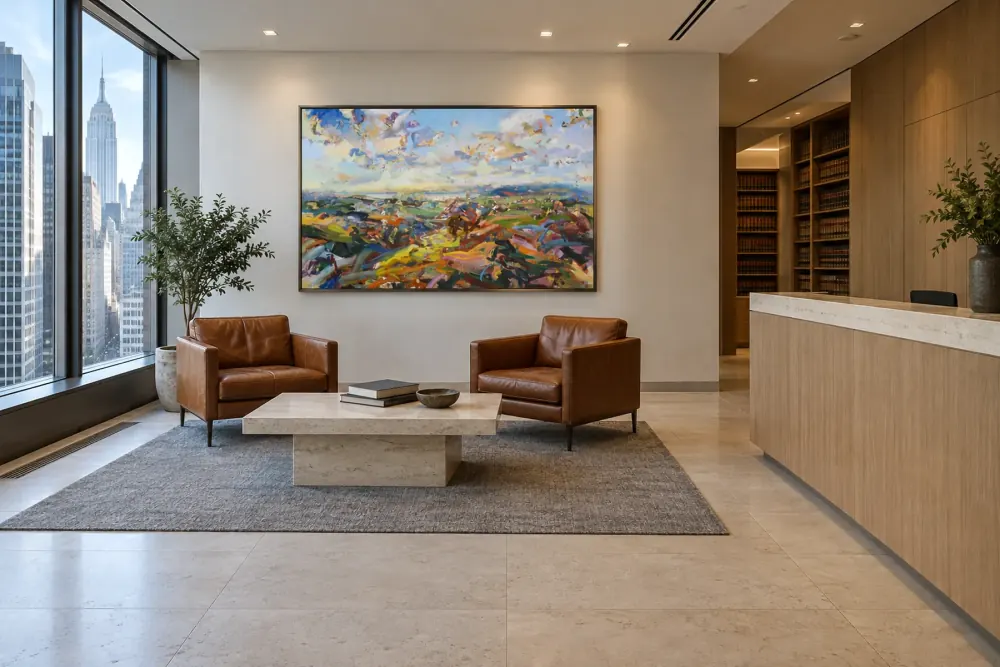
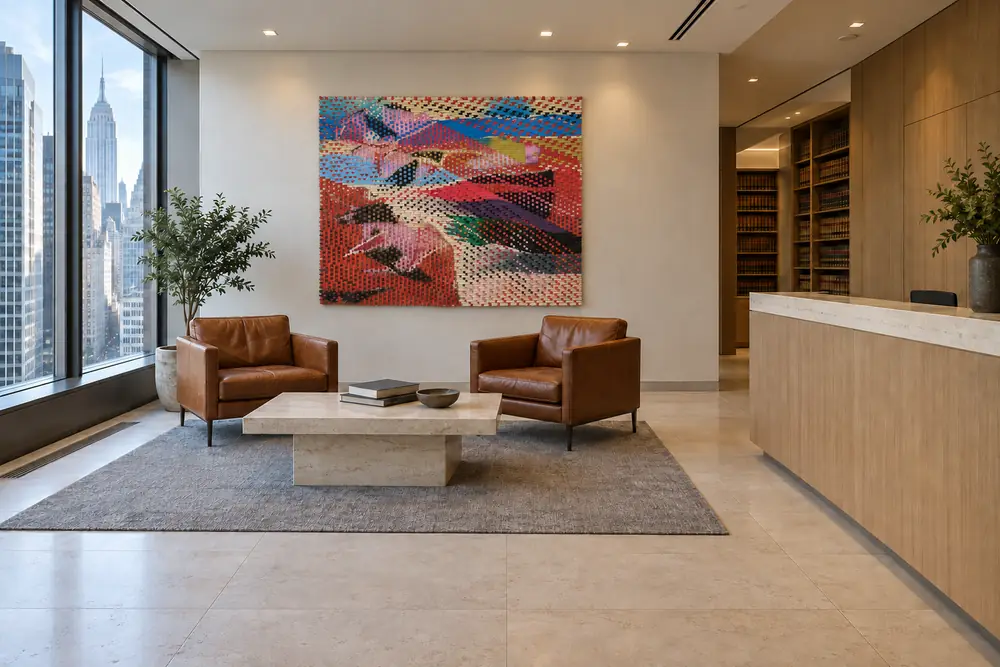
Law firms: new reception after image (woven abstract by Arzabe)
Replace the law-01 reception AFTER render on /law-firms/, the office
advisory pages and the homepage law-firms tile. Captions, alts, rect,
focal point and art_x now describe the new work.

diff --git a/law-firms/index.html b/law-firms/index.html
@@ -12,7 +12,7 @@
 <meta property="og:image" content="https://stavtheodor.com/images/home2/variants/law-firms/law-firms_og.jpg">
 <meta property="og:image:width" content="1200">
 <meta property="og:image:height" content="630">
-<meta property="og:image:alt" content="A law firm reception over Manhattan: a wide, brightly painted landscape above two cognac leather chairs, law books on shelves at right.">
+<meta property="og:image:alt" content="A law firm reception over Manhattan: a large unframed woven abstract in red, pink and blue above two cognac leather chairs, law books on shelves at right.">
 <meta property="og:site_name" content="THEODORA">
 <meta property="og:locale" content="en_US">
 <meta property="og:locale:alternate" content="he_IL">
@@ -410,9 +410,9 @@
 <canvas id="gl" class="gl-only" role="img" aria-label="A living room painted into view, then a proposal for the art on its wall."></canvas>
 
 <section class="hero" id="hero" aria-label="Opening">
-  <figure class="sfig static-only" style="--fx:44.9%;--fy:29.94%">
-    <img src="/images/home2/variants/law-firms/law-firms_after.webp" alt="A law firm reception over Manhattan: a wide, brightly painted landscape above two cognac leather chairs, law books on shelves at right." data-alt-he="קבלה של משרד עורכי דין מעל מנהטן: נוף מצויר רחב בצבעים עזים מעל שתי כורסאות עור בגוון קוניאק, ספרי משפט על המדפים מימין." loading="lazy" decoding="async">
-    <figcaption><span data-l="en" lang="en">Proposal. A law firm reception high over Manhattan, a wide landscape in bright color above the leather chairs.</span><span data-l="he" lang="he" dir="rtl">הצעה. קבלה של משרד עורכי דין גבוה מעל מנהטן, נוף רחב בצבעים עזים מעל כורסאות העור.</span></figcaption>
+  <figure class="sfig static-only" style="--fx:45.14%;--fy:30.38%">
+    <img src="/images/home2/variants/law-firms/law-firms_after.webp" alt="A law firm reception over Manhattan: a large unframed woven abstract in red, pink and blue above two cognac leather chairs, law books on shelves at right." data-alt-he="קבלה של משרד עורכי דין מעל מנהטן: עבודה מופשטת ארוגה גדולה ללא מסגרת באדום, ורוד וכחול מעל שתי כורסאות עור בגוון קוניאק, ספרי משפט על המדפים מימין." loading="lazy" decoding="async">
+    <figcaption><span data-l="en" lang="en">Proposal. A law firm reception high over Manhattan, a woven abstract in red, pink and blue above the leather chairs.</span><span data-l="he" lang="he" dir="rtl">הצעה. קבלה של משרד עורכי דין גבוה מעל מנהטן, עבודה מופשטת ארוגה באדום, ורוד וכחול מעל כורסאות העור.</span></figcaption>
   </figure>
   <div class="hero-ui">
     <p class="line" id="l1"><span data-l="en" lang="en">Strong entrance.</span><span data-l="he" lang="he" dir="rtl">כניסה חזקה.</span></p>
@@ -438,7 +438,7 @@
   </figure>
 </div>
 <div class="band gl-only" aria-hidden="true"></div>
-<p class="cap gl-only" id="cap"><span class="cap-t" data-cap="p3"><span data-l="en" lang="en">Proposal. A law firm reception high over Manhattan, a wide landscape in bright color above the leather chairs.</span><span data-l="he" lang="he" dir="rtl">הצעה. קבלה של משרד עורכי דין גבוה מעל מנהטן, נוף רחב בצבעים עזים מעל כורסאות העור.</span></span><span class="cap-t" data-cap="p4"><span data-l="en" lang="en">Proposal. A paneled meeting space in deep green, a gold leaf portrait above the sideboard.</span><span data-l="he" lang="he" dir="rtl">הצעה. חלל ישיבות מחופה בירוק עמוק, דיוקן על עלי זהב מעל המזנון.</span></span><span class="cap-t" data-cap="p5"><span data-l="en" lang="en">Proposal. A client lounge with a leather sofa, a tall abstract in gold and cream above it.</span><span data-l="he" lang="he" dir="rtl">הצעה. טרקלין לקוחות עם ספת עור, מופשט גבוה בזהב ובשמנת מעליה.</span></span><span class="cap-t" data-cap="p1"><span data-l="en" lang="en">Proposal. A long table between two skyline windows, a wide painting of a sunlit modern interior at the far end.</span><span data-l="he" lang="he" dir="rtl">הצעה. שולחן ארוך בין שני חלונות אל קו הרקיע, ציור רחב של פנים מודרני מואר על הקיר שבקצה.</span></span></p>
+<p class="cap gl-only" id="cap"><span class="cap-t" data-cap="p3"><span data-l="en" lang="en">Proposal. A law firm reception high over Manhattan, a woven abstract in red, pink and blue above the leather chairs.</span><span data-l="he" lang="he" dir="rtl">הצעה. קבלה של משרד עורכי דין גבוה מעל מנהטן, עבודה מופשטת ארוגה באדום, ורוד וכחול מעל כורסאות העור.</span></span><span class="cap-t" data-cap="p4"><span data-l="en" lang="en">Proposal. A paneled meeting space in deep green, a gold leaf portrait above the sideboard.</span><span data-l="he" lang="he" dir="rtl">הצעה. חלל ישיבות מחופה בירוק עמוק, דיוקן על עלי זהב מעל המזנון.</span></span><span class="cap-t" data-cap="p5"><span data-l="en" lang="en">Proposal. A client lounge with a leather sofa, a tall abstract in gold and cream above it.</span><span data-l="he" lang="he" dir="rtl">הצעה. טרקלין לקוחות עם ספת עור, מופשט גבוה בזהב ובשמנת מעליה.</span></span><span class="cap-t" data-cap="p1"><span data-l="en" lang="en">Proposal. A long table between two skyline windows, a wide painting of a sunlit modern interior at the far end.</span><span data-l="he" lang="he" dir="rtl">הצעה. שולחן ארוך בין שני חלונות אל קו הרקיע, ציור רחב של פנים מודרני מואר על הקיר שבקצה.</span></span></p>
 
 <div class="page" id="page">
 <section class="intro" id="intro">
@@ -868,7 +868,7 @@ document.addEventListener('click', function (e) {
   update();
 })();
 </script>
-<script>window.THEODORA_ROOMS = [{"slot":0,"b":"variants/law-firms/law-firms_before.webp","a":"variants/law-firms/law-firms_after.webp","w":1800,"h":1200,"rect":[0.2979,0.1569,0.6,0.4419],"fx":0.449,"fy":0.2994,"from":"right","seed":9},{"slot":1,"b":"variants/law-firms/law-firms_s1_before.webp","a":"variants/law-firms/law-firms_s1_after.webp","w":1800,"h":1200,"rect":[0.4171,0.1225,0.6046,0.4119],"fx":0.5108,"fy":0.2672,"from":"right"},{"slot":2,"b":"variants/law-firms/law-firms_s2_before.webp","a":"variants/law-firms/law-firms_s2_after.webp","w":1800,"h":1200,"rect":[0.3887,0.0769,0.6117,0.5038],"fx":0.5002,"fy":0.2903,"from":"right"},{"slot":3,"b":"variants/law-firms/law-firms_s3_before.webp","a":"variants/law-firms/law-firms_s3_after.webp","w":1800,"h":1200,"rect":[0.3379,0.2519,0.6604,0.5062],"fx":0.4992,"fy":0.3791,"from":"right"}]; window.THEODORA_ROOMS_ONLY = true;</script>
+<script>window.THEODORA_ROOMS = [{"slot":0,"b":"variants/law-firms/law-firms_before.webp","a":"variants/law-firms/law-firms_after.webp","w":1800,"h":1200,"rect":[0.3194,0.1458,0.5833,0.4617],"fx":0.4514,"fy":0.3038,"from":"right","seed":9},{"slot":1,"b":"variants/law-firms/law-firms_s1_before.webp","a":"variants/law-firms/law-firms_s1_after.webp","w":1800,"h":1200,"rect":[0.4171,0.1225,0.6046,0.4119],"fx":0.5108,"fy":0.2672,"from":"right"},{"slot":2,"b":"variants/law-firms/law-firms_s2_before.webp","a":"variants/law-firms/law-firms_s2_after.webp","w":1800,"h":1200,"rect":[0.3887,0.0769,0.6117,0.5038],"fx":0.5002,"fy":0.2903,"from":"right"},{"slot":3,"b":"variants/law-firms/law-firms_s3_before.webp","a":"variants/law-firms/law-firms_s3_after.webp","w":1800,"h":1200,"rect":[0.3379,0.2519,0.6604,0.5062],"fx":0.4992,"fy":0.3791,"from":"right"}]; window.THEODORA_ROOMS_ONLY = true;</script>
 <!-- GSAP 3.13 (core, ScrollTrigger, SplitText) and Lenis 1.3.11 are vendored in /js/vendor/ with their licence
      headers and loaded with defer, in order, so nothing blocks the parser (2026-09-26). -->
 <script src="/js/vendor/gsap.min.js" defer></script>

diff --git a/advisory/index.html b/advisory/index.html
@@ -613,7 +613,7 @@
         <p class="muted"><span data-l="en" lang="en">In a new condo with floor to ceiling glass, you have fewer walls, so each one matters more: decide which few walls carry the art, choose work and glazing that can live with strong light, and consider sculpture where walls run out.</span><span data-l="he" lang="he" dir="rtl">בדירה בפרויקט חדש עם זכוכית מהרצפה עד התקרה יש פחות קירות, ולכן כל אחד מהם חשוב יותר: מחליטים אילו קירות בודדים נושאים את האמנות, בוחרים יצירות וזיגוג שיכולים לחיות עם אור חזק, ושוקלים פיסול במקום שהקירות נגמרים.</span></p>
       </a>
       <a class="card reveal" href="/advisory/art-for-a-new-office-manhattan/">
-        <div class="ph"><img src="/images/spaces/law-firms_after-1000.webp" alt="A reception over Manhattan: a wide, brightly painted landscape above two cognac leather chairs, books on shelves at right." data-alt-he="אזור קבלה מעל מנהטן: נוף רחב בצבעים עזים מעל שתי כורסאות עור בגוון קוניאק, ספרים על מדפים מימין." loading="lazy"><span class="ba-chip"><span data-l="en" lang="en">Proposal</span><span data-l="he" lang="he" dir="rtl">הצעה</span></span></div>
+        <div class="ph"><img src="/images/spaces/law-firms_after-1000.webp" alt="A reception over Manhattan: a large unframed woven abstract in red, pink and blue above two cognac leather chairs, books on shelves at right." data-alt-he="אזור קבלה מעל מנהטן: עבודה מופשטת ארוגה גדולה ללא מסגרת באדום, ורוד וכחול מעל שתי כורסאות עור בגוון קוניאק, ספרים על מדפים מימין." loading="lazy"><span class="ba-chip"><span data-l="en" lang="en">Proposal</span><span data-l="he" lang="he" dir="rtl">הצעה</span></span></div>
         <h3 class="serif"><span data-l="en" lang="en">Art for a new office in Manhattan: how companies choose, buy and install it</span><span data-l="he" lang="he" dir="rtl">אמנות למשרד חדש במנהטן: איך חברות בוחרות, קונות ומתקינות אותה</span></h3>
         <p class="muted"><span data-l="en" lang="en">Plan the art together with the fit-out, decide what clients should understand about the company when they walk in, and schedule the installation around the move so work never stops.</span><span data-l="he" lang="he" dir="rtl">מתכננים את האמנות יחד עם עבודות ההתאמה, מחליטים מה לקוחות צריכים להבין על החברה כשהם נכנסים, ומתזמנים את ההתקנה סביב המעבר כך שהעבודה לא נעצרת.</span></p>
       </a>
@@ -628,7 +628,7 @@
         <p class="muted"><span data-l="en" lang="en">Go bigger than feels comfortable, choose work that can hold long walls, high ceilings, brick and hard light, and plan the logistics of a very large piece before you buy it.</span><span data-l="he" lang="he" dir="rtl">הולכים גדול יותר ממה שמרגיש נוח, בוחרים יצירות שיכולות להחזיק קירות ארוכים, תקרות גבוהות, לבנים ואור קשה, ומתכננים את הלוגיסטיקה של יצירה גדולה מאוד לפני שקונים אותה.</span></p>
       </a>
       <a class="card reveal" href="/advisory/art-for-an-office-or-business/">
-        <div class="ph"><img src="/images/spaces/law-firms_after-1000.webp" alt="A reception over Manhattan: a wide, brightly painted landscape above two cognac leather chairs, books on shelves at right." data-alt-he="אזור קבלה מעל מנהטן: נוף רחב בצבעים עזים מעל שתי כורסאות עור בגוון קוניאק, ספרים על מדפים מימין." loading="lazy"><span class="ba-chip"><span data-l="en" lang="en">Proposal</span><span data-l="he" lang="he" dir="rtl">הצעה</span></span></div>
+        <div class="ph"><img src="/images/spaces/law-firms_after-1000.webp" alt="A reception over Manhattan: a large unframed woven abstract in red, pink and blue above two cognac leather chairs, books on shelves at right." data-alt-he="אזור קבלה מעל מנהטן: עבודה מופשטת ארוגה גדולה ללא מסגרת באדום, ורוד וכחול מעל שתי כורסאות עור בגוון קוניאק, ספרים על מדפים מימין." loading="lazy"><span class="ba-chip"><span data-l="en" lang="en">Proposal</span><span data-l="he" lang="he" dir="rtl">הצעה</span></span></div>
         <h3 class="serif"><span data-l="en" lang="en">Art for an office, a clinic or a business: how to choose it and what it says</span><span data-l="he" lang="he" dir="rtl">אמנות למשרד, לקליניקה או לעסק: איך בוחרים ומה היא אומרת ללקוחות</span></h3>
         <p class="muted"><span data-l="en" lang="en">Choose art for a business by deciding first what a client should understand about you in the ten seconds before you speak, then choosing one work that says it honestly and holds the wall from the door.</span><span data-l="he" lang="he" dir="rtl">בוחרים אמנות לעסק כשמחליטים קודם מה לקוח צריך להבין עליכם בעשר השניות שלפני שאתם אומרים מילה, ואז בוחרים עבודה אחת שאומרת את זה בכנות ומחזיקה את הקיר כבר מהדלת.</span></p>
       </a>

diff --git a/advisory/art-for-a-new-office-manhattan/index.html b/advisory/art-for-a-new-office-manhattan/index.html
@@ -383,7 +383,7 @@
   <p class="eyebrow"><span data-l="en" lang="en">Art advisory</span><span data-l="he" lang="he" dir="rtl">ייעוץ אמנות</span></p>
   <h1 class="serif"><span data-l="en" lang="en">Art for a new office in Manhattan: how companies choose, buy and install it</span> <span data-l="he" lang="he" dir="rtl">אמנות למשרד חדש במנהטן: איך חברות בוחרות, קונות ומתקינות אותה</span></h1>
   <p class="lead"><span data-l="en" lang="en">Plan the art together with the fit-out, decide what clients should understand about the company when they walk in, and schedule the installation around the move so work never stops. I am Stav Theodor, and at THEODORA Art Advisory by Stav Theodor I work with offices in Manhattan and across New York City and New Jersey, from a few strong works for reception and meeting rooms to a whole floor, and my own insured team installs after hours.</span><span data-l="he" lang="he" dir="rtl">מתכננים את האמנות יחד עם עבודות ההתאמה, מחליטים מה לקוחות צריכים להבין על החברה כשהם נכנסים, ומתזמנים את ההתקנה סביב המעבר כך שהעבודה לא נעצרת. אני סתיו תאודור, וב-THEODORA Art Advisory by Stav Theodor אני עובדת עם משרדים במנהטן ובכל העיר ניו יורק ובניו ג'רזי, מכמה יצירות חזקות לקבלה ולחדרי הישיבות ועד קומה שלמה, וצוות ההתקנה המבוטח שלי מתקין אחרי שעות העבודה.</span></p>
-  <figure class="ba" data-art="0.2979 0.6 0.449 1800 1200" style="--fx:44.9%;--fy:29.9%;--ar:1800/1200">
+  <figure class="ba" data-art="0.3194 0.5833 0.4514 1800 1200" style="--fx:45.1%;--fy:30.4%;--ar:1800/1200">
     <div class="ba-pin">
       <div class="ba-stage">
         <div class="ba-pane ba-before">
@@ -391,11 +391,11 @@
           <span class="ba-chip"><span data-l="en" lang="en">Before</span><span data-l="he" lang="he" dir="rtl">לפני</span></span>
         </div>
         <div class="ba-pane ba-after">
-          <div class="ba-wipe"><img src="/images/spaces/law-firms_after.webp" srcset="/images/spaces/law-firms_after-1000.webp 1000w, /images/spaces/law-firms_after.webp 1800w" sizes="(max-width: 767px) 100vw, min(1100px, 92vw)" width="1800" height="1200" alt="A reception over Manhattan: a wide, brightly painted landscape above two cognac leather chairs, books on shelves at right." data-alt-he="אזור קבלה מעל מנהטן: נוף רחב בצבעים עזים מעל שתי כורסאות עור בגוון קוניאק, ספרים על מדפים מימין." loading="lazy" decoding="async"></div>
+          <div class="ba-wipe"><img src="/images/spaces/law-firms_after.webp" srcset="/images/spaces/law-firms_after-1000.webp 1000w, /images/spaces/law-firms_after.webp 1800w" sizes="(max-width: 767px) 100vw, min(1100px, 92vw)" width="1800" height="1200" alt="A reception over Manhattan: a large unframed woven abstract in red, pink and blue above two cognac leather chairs, books on shelves at right." data-alt-he="אזור קבלה מעל מנהטן: עבודה מופשטת ארוגה גדולה ללא מסגרת באדום, ורוד וכחול מעל שתי כורסאות עור בגוון קוניאק, ספרים על מדפים מימין." loading="lazy" decoding="async"></div>
           <span class="ba-chip"><span data-l="en" lang="en">After</span><span data-l="he" lang="he" dir="rtl">אחרי</span></span>
         </div>
       </div>
-      <figcaption><span class="ba-label"><span data-l="en" lang="en">Proposal · how THEODORA would dress this space</span><span data-l="he" lang="he" dir="rtl">הצעה · כך THEODORA הייתה מלבישה את החלל הזה</span></span> <span data-l="en" lang="en">A reception high over Manhattan, a wide landscape in bright color above the leather chairs.</span><span data-l="he" lang="he" dir="rtl">אזור קבלה גבוה מעל מנהטן, נוף רחב בצבעים עזים מעל כורסאות העור.</span></figcaption>
+      <figcaption><span class="ba-label"><span data-l="en" lang="en">Proposal · how THEODORA would dress this space</span><span data-l="he" lang="he" dir="rtl">הצעה · כך THEODORA הייתה מלבישה את החלל הזה</span></span> <span data-l="en" lang="en">A reception high over Manhattan, a woven abstract in red, pink and blue above the leather chairs.</span><span data-l="he" lang="he" dir="rtl">אזור קבלה גבוה מעל מנהטן, עבודה מופשטת ארוגה באדום, ורוד וכחול מעל כורסאות העור.</span></figcaption>
     </div>
   </figure>
 </header>

diff --git a/advisory/art-for-an-office-or-business/index.html b/advisory/art-for-an-office-or-business/index.html
@@ -407,7 +407,7 @@
   <p class="eyebrow"><span data-l="en" lang="en">Art advisory</span><span data-l="he" lang="he" dir="rtl">ייעוץ אמנות</span></p>
   <h1 class="serif"><span data-l="en" lang="en">Art for an office, a clinic or a business: how to choose it and what it says</span> <span data-l="he" lang="he" dir="rtl">אמנות למשרד, לקליניקה או לעסק: איך בוחרים ומה היא אומרת ללקוחות</span></h1>
   <p class="lead"><span data-l="en" lang="en">Choose art for a business by deciding first what a client should understand about you in the ten seconds before you speak, then choosing one work that says it honestly and holds the wall from the door. Clients read it: a wall with a point of view tells them the person behind the desk has one too.</span><span data-l="he" lang="he" dir="rtl">בוחרים אמנות לעסק כשמחליטים קודם מה לקוח צריך להבין עליכם בעשר השניות שלפני שאתם אומרים מילה, ואז בוחרים עבודה אחת שאומרת את זה בכנות ומחזיקה את הקיר כבר מהדלת. לקוחות קוראים את זה: קיר עם אמירה מבהיר להם שגם לאדם שמאחורי השולחן יש אמירה משלו.</span></p>
-  <figure class="ba" data-art="0.2979 0.6 0.449 1800 1200" style="--fx:44.9%;--fy:29.9%;--ar:1800/1200">
+  <figure class="ba" data-art="0.3194 0.5833 0.4514 1800 1200" style="--fx:45.1%;--fy:30.4%;--ar:1800/1200">
     <div class="ba-pin">
       <div class="ba-stage">
         <div class="ba-pane ba-before">
@@ -415,11 +415,11 @@
           <span class="ba-chip"><span data-l="en" lang="en">Before</span><span data-l="he" lang="he" dir="rtl">לפני</span></span>
         </div>
         <div class="ba-pane ba-after">
-          <div class="ba-wipe"><img src="/images/spaces/law-firms_after.webp" srcset="/images/spaces/law-firms_after-1000.webp 1000w, /images/spaces/law-firms_after.webp 1800w" sizes="(max-width: 767px) 100vw, min(1100px, 92vw)" width="1800" height="1200" alt="A reception over Manhattan: a wide, brightly painted landscape above two cognac leather chairs, books on shelves at right." data-alt-he="אזור קבלה מעל מנהטן: נוף רחב בצבעים עזים מעל שתי כורסאות עור בגוון קוניאק, ספרים על מדפים מימין." loading="lazy" decoding="async"></div>
+          <div class="ba-wipe"><img src="/images/spaces/law-firms_after.webp" srcset="/images/spaces/law-firms_after-1000.webp 1000w, /images/spaces/law-firms_after.webp 1800w" sizes="(max-width: 767px) 100vw, min(1100px, 92vw)" width="1800" height="1200" alt="A reception over Manhattan: a large unframed woven abstract in red, pink and blue above two cognac leather chairs, books on shelves at right." data-alt-he="אזור קבלה מעל מנהטן: עבודה מופשטת ארוגה גדולה ללא מסגרת באדום, ורוד וכחול מעל שתי כורסאות עור בגוון קוניאק, ספרים על מדפים מימין." loading="lazy" decoding="async"></div>
           <span class="ba-chip"><span data-l="en" lang="en">After</span><span data-l="he" lang="he" dir="rtl">אחרי</span></span>
         </div>
       </div>
-      <figcaption><span class="ba-label"><span data-l="en" lang="en">Proposal · how THEODORA would dress this space</span><span data-l="he" lang="he" dir="rtl">הצעה · כך THEODORA הייתה מלבישה את החלל הזה</span></span> <span data-l="en" lang="en">A reception high over Manhattan, a wide landscape in bright color above the leather chairs.</span><span data-l="he" lang="he" dir="rtl">אזור קבלה גבוה מעל מנהטן, נוף רחב בצבעים עזים מעל כורסאות העור.</span></figcaption>
+      <figcaption><span class="ba-label"><span data-l="en" lang="en">Proposal · how THEODORA would dress this space</span><span data-l="he" lang="he" dir="rtl">הצעה · כך THEODORA הייתה מלבישה את החלל הזה</span></span> <span data-l="en" lang="en">A reception high over Manhattan, a woven abstract in red, pink and blue above the leather chairs.</span><span data-l="he" lang="he" dir="rtl">אזור קבלה גבוה מעל מנהטן, עבודה מופשטת ארוגה באדום, ורוד וכחול מעל כורסאות העור.</span></figcaption>
     </div>
   </figure>
 </header>

diff --git a/AGENTS.md b/AGENTS.md
@@ -139,6 +139,7 @@ Report failures honestly. If a check fails after the cache window, say so; do no
 
 Format: `- YYYY-MM-DD HH:MM (TZ) | who | what changed | notes for the other AI`
 
+- 2026-09-30 (ET) | Claude (law-firms image swap, Mac, scratch worktree off origin/main) | Ron swapped the law-firms reception after image (law-01 reception AFTER, unframed woven abstract by Arzabe): images/home2/variants/law-firms/law-firms_after.webp, images/spaces/law-firms_after.webp (+ -1000 twin), both law-firms_og.jpg files and images/home2/industries/law-firms.webp regenerated from the new 1536 by 1024 source; rect, fx, fy and art_x moved to the new work, captions and alts (English and Hebrew) now describe it. | The new render is a fresh generation, not pixel aligned with law-firms_before.webp outside the artwork (chairs shift slightly in the wipe).
 - 2026-09-30 12:25 (ET) | Grok (redirects session, box) | Four dead URLs now forward (static stubs: canonical, meta refresh, location.replace, noindex, in no sitemap), via `OLD_PATHS` in `build-home.py`: /services/ to /advisory/, /portfolio/ to /projects/, /blog/ to /radar/, /radar/what-to-see-july-2026/ to /radar/. `tools/check_site.py` knows them (`STUB_DIRS`, and `STUB_FILES` plus `stub_path()` for the nested radar one); `tools/indexnow.py` skips them | Never reuse the slug what-to-see-july-2026 for a post: its folder is a redirect stub now.
 - 2026-09-30 12:30 (ET) | Grok (SEO session, box) | Google Business Profile live (verified, Ron confirmed): the public listing is THEODORA, (201) 351-8367, stavtheodor.com, feature 0x84f0b234717c529f:0x86fec22f3b8dbd5, place ID ChIJn1J8cTSy8IQR1du48yLsbwg. `content/entity.json`: the ProfessionalService gains `hasMap` and a first sameAs entry, both https://www.google.com/maps?cid=607964109580327893 (so every page's schema carries it); llms.txt (identity line) and agent.txt (Organization block) list it as the Google Business Profile. The old `_todo` placeholder had already gone in 0567819; the `strip_private` docstring no longer names it. | Found by a Maps search on the business phone and confirmed in a browser: the cid link opens the THEODORA place with the site, the phone and an owner post. Not added to /contact/ or answers.md.
 - 2026-09-30 11:55 (ET) | Grok (SEO/AIO wave session, box) | AIO wave 2 (Article Plan rows A6, A17, A21, A4): three new bilingual advisory pages, `content/pages/` art-for-a-new-condo-nyc, where-to-buy-original-art-nyc, art-for-a-prewar-apartment-upper-east-side. A21 (commission a painting in NYC) overlapped advisory/commissioning-art-for-a-new-home, which got a sixth question for New York instead of a new page. Related links added on four existing pages; llms.txt, answers.md and agent.txt updated | (Wave 1 and GA entries below: times corrected to the box clock.)
